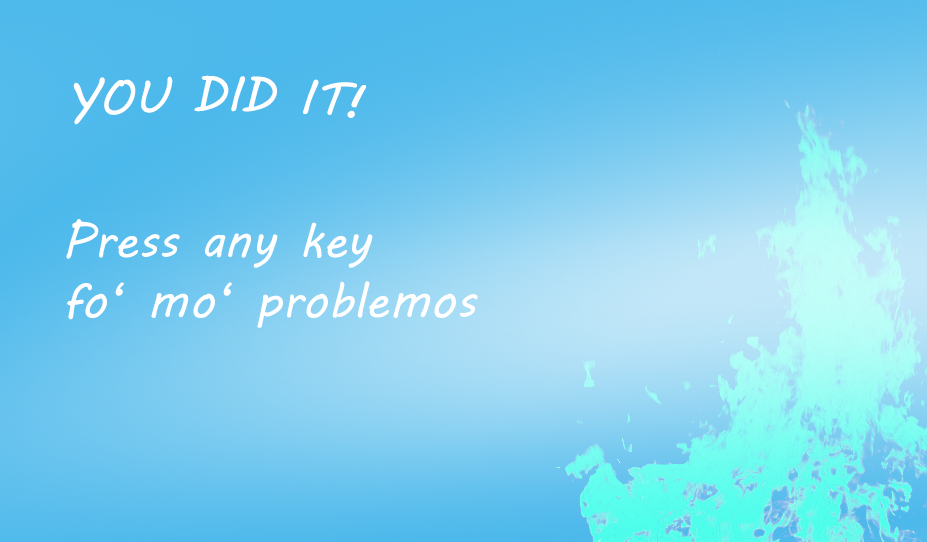
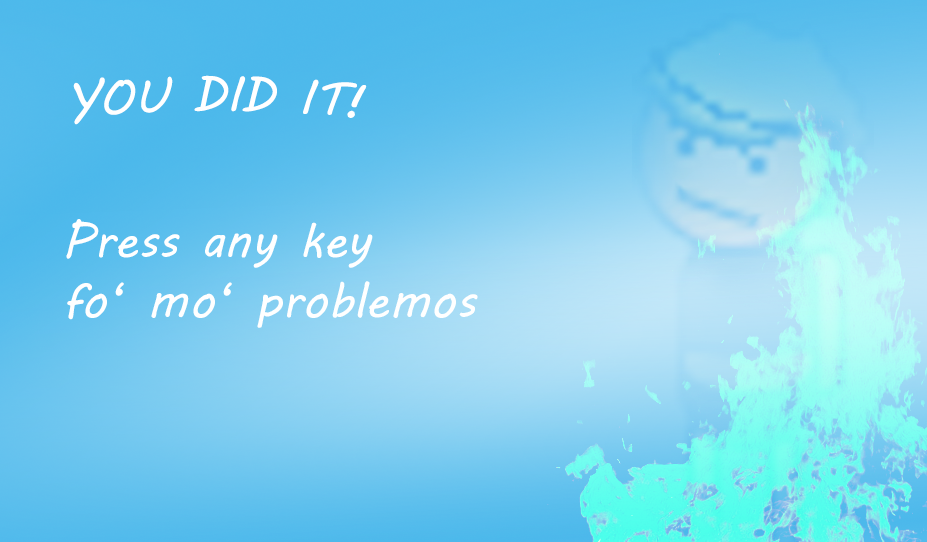
figur

Changed region(s): [[0.7249, 0.1771, 0.8759, 0.3838], [0.7551, 0.4428, 0.8457, 0.4723]]

diff --git a/Player.cs b/Player.cs
@@ -5,9 +5,16 @@ public class Player : KinematicBody2D
 {
     [Export] private float speed = 300;
     private WaterCannon waterCannon;
+    private Sprite _sprite;
+    private Texture _goLeft;
+    private Texture _goRight;
     
     public override void _Ready() {
         waterCannon = (WaterCannon) FindNode("WaterCannon");
+        _sprite = (Sprite) FindNode("Sprite");
+
+        _goLeft  = (Texture)ResourceLoader.Load("res://Assets/figure_hz.png");
+        _goRight = (Texture)ResourceLoader.Load("res://Assets/figure.png");
     }
 
     public override void _PhysicsProcess(float delta) {
@@ -21,9 +28,11 @@ public class Player : KinematicBody2D
        }
        if(Input.IsActionPressed("move_right")) {
            movement.x += 2;
+           _sprite.SetTexture(_goRight);
        }
        if(Input.IsActionPressed("move_left")) {
            movement.x -= 2;
+           _sprite.SetTexture(_goLeft);
        }
 
         if(movement.Length() > 0) {
